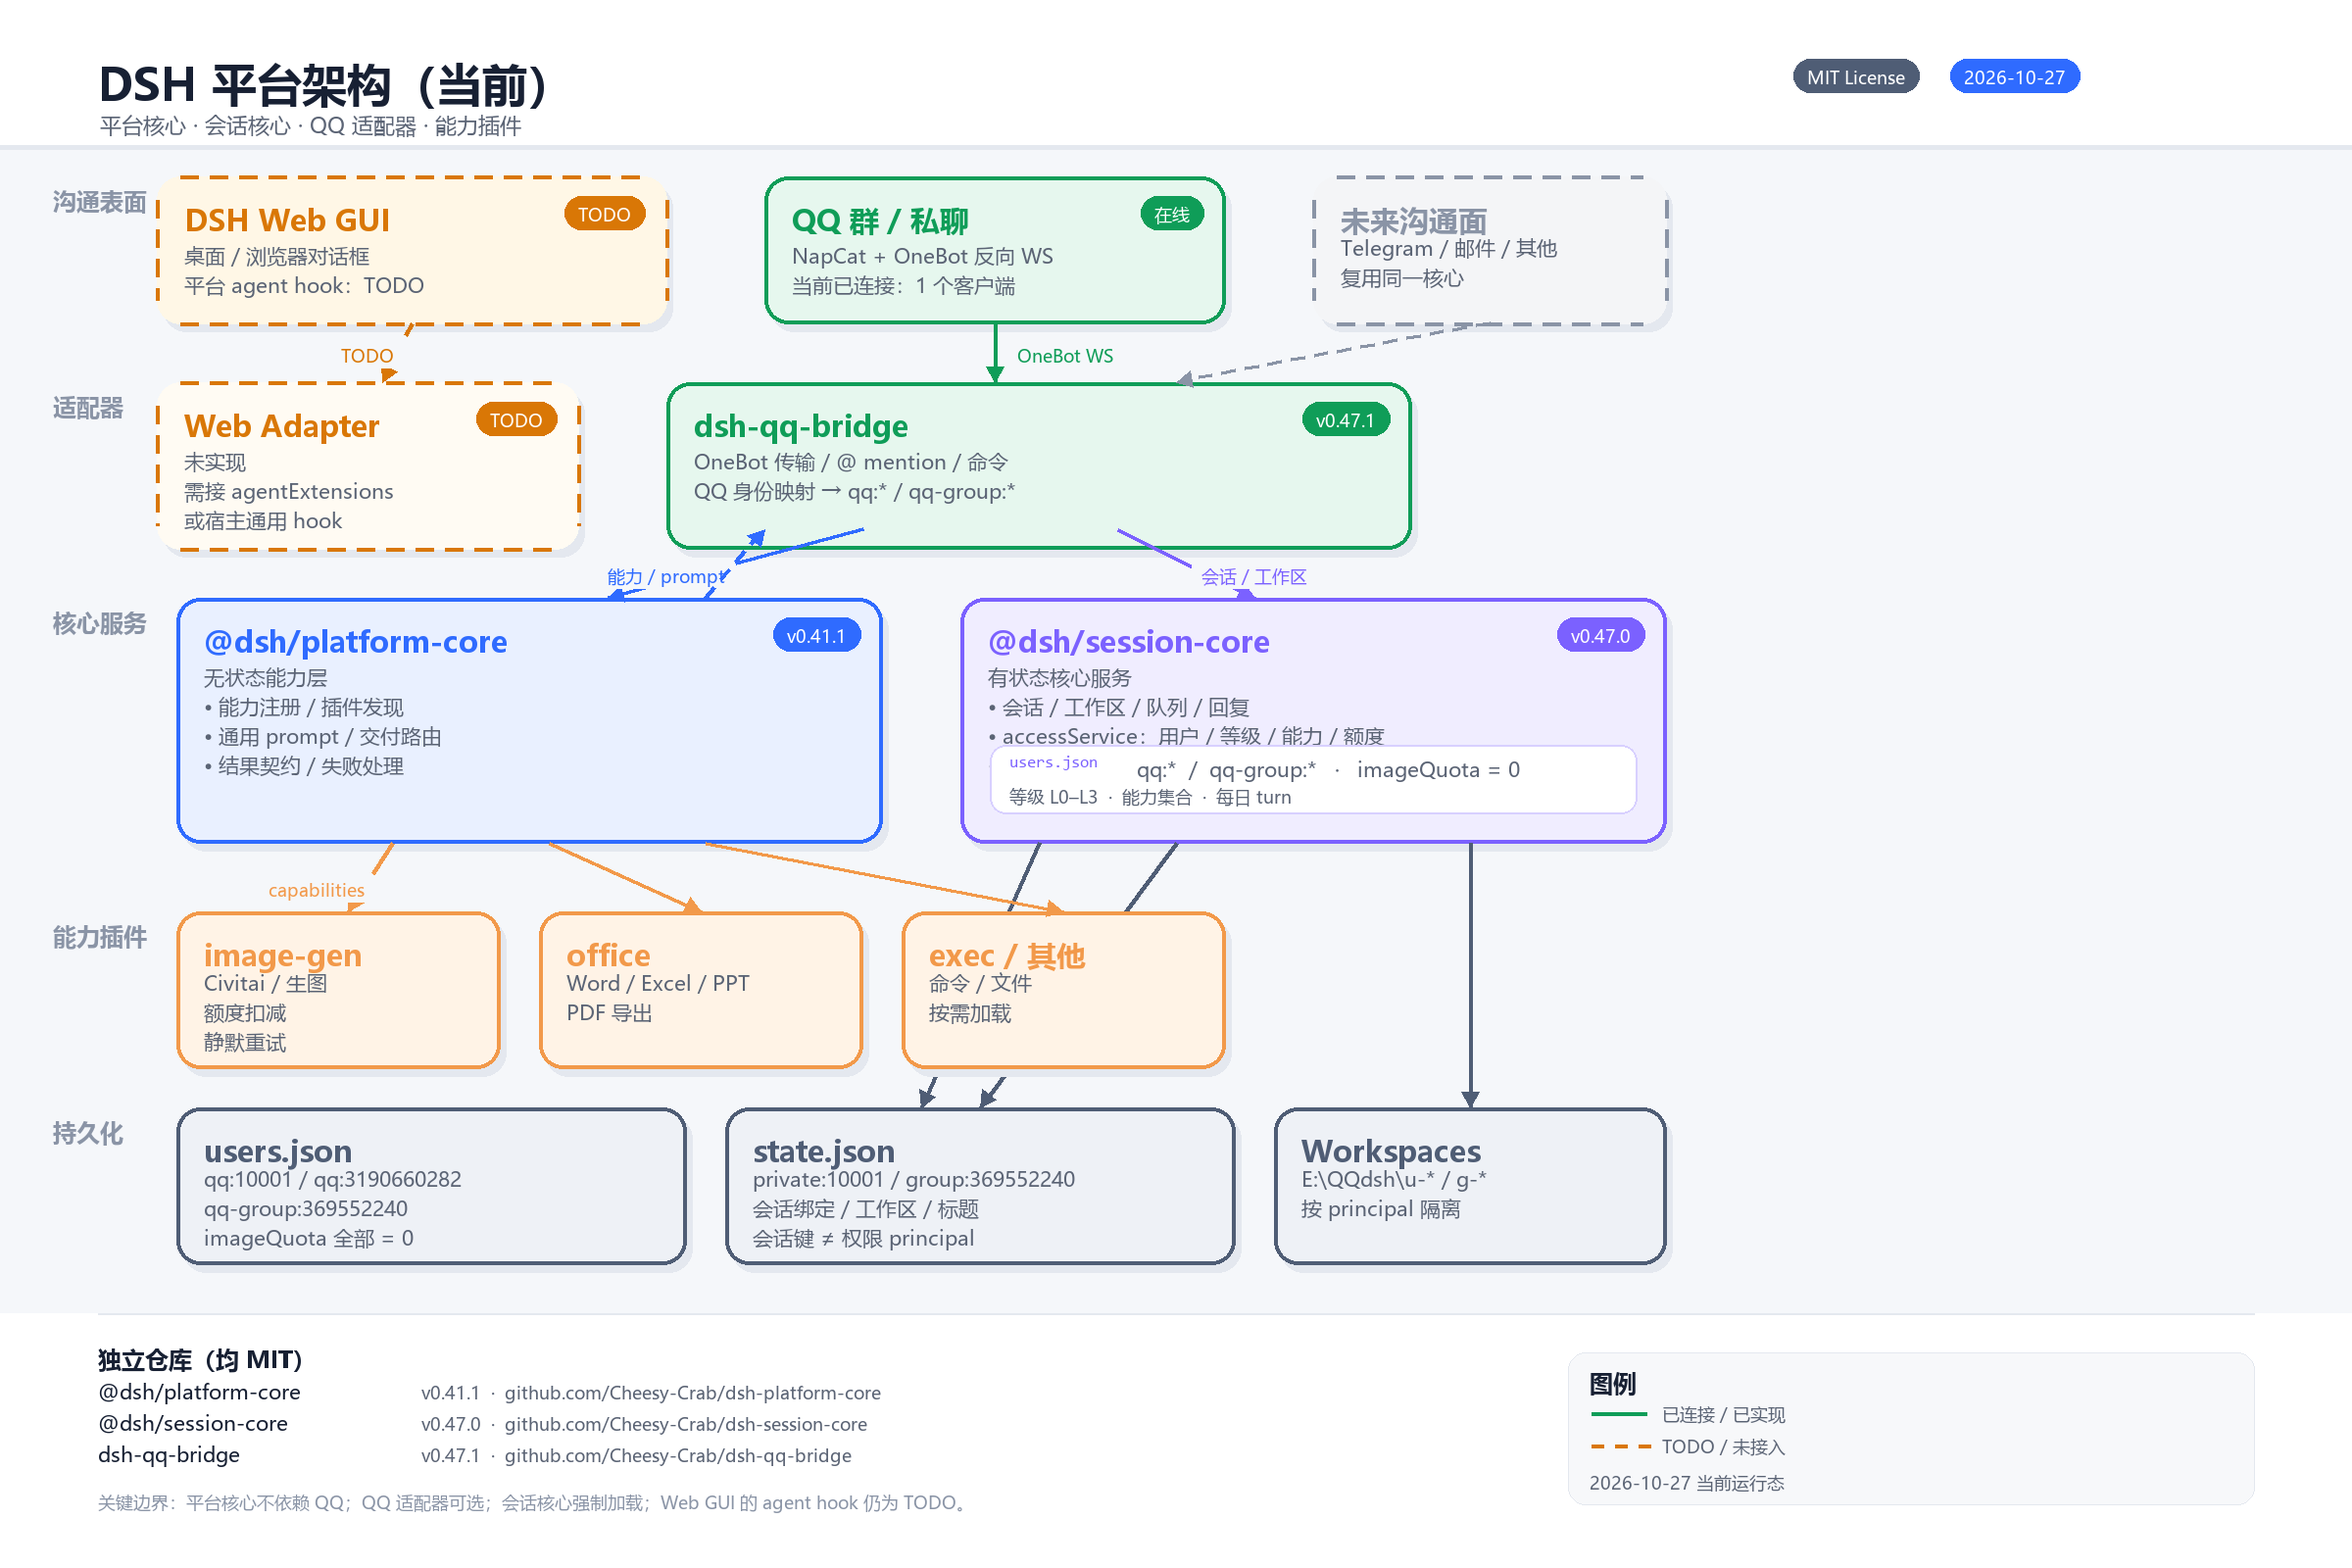
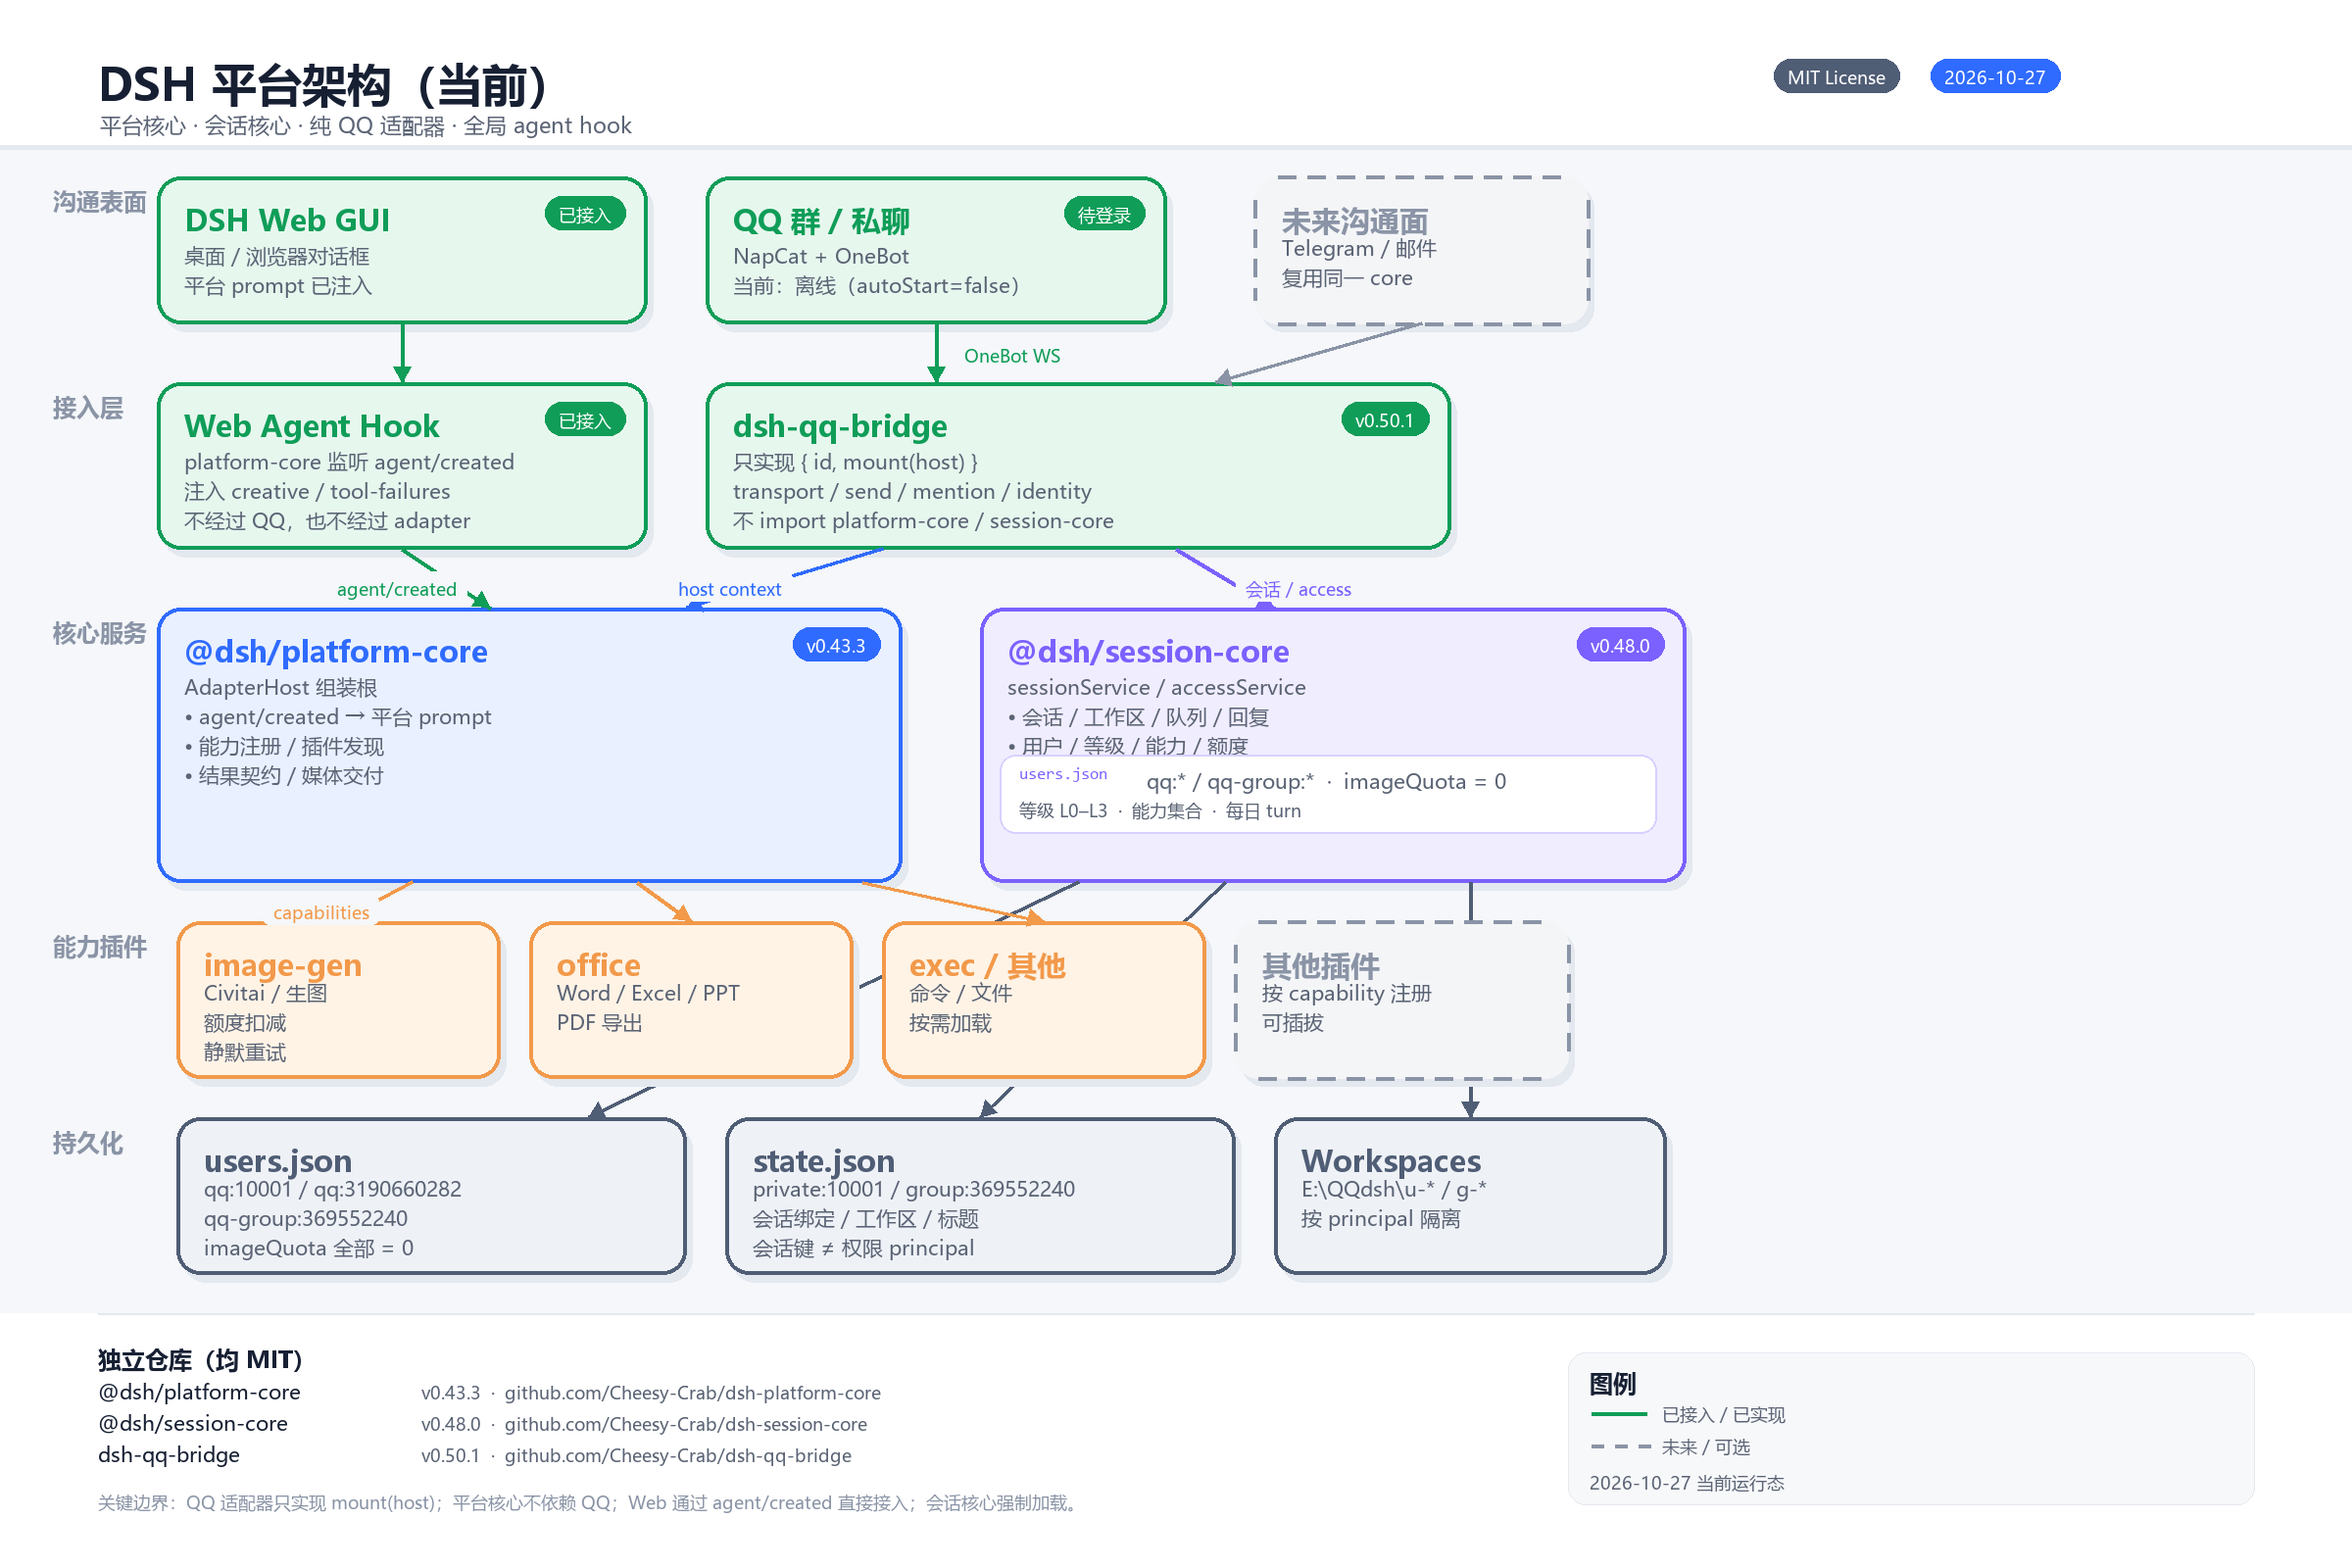
feat: platform v1.2 manifest and profile command

diff --git a/src/qq/commands.js b/src/qq/commands.js
@@ -40,10 +40,11 @@ export class CommandDispatcher {
    *           send: (chat: any, text: string) => Promise<unknown>,
    *           status: () => any }} options
    */
-  constructor({ manager, users, config, root, log, send, sendImage, status, screenshot = captureScreen, napcat, credentials, access }) {
+  constructor({ manager, users, config, root, log, send, sendImage, status, screenshot = captureScreen, napcat, credentials, access, profiles }) {
     this.manager = manager
     this.users = users
     this.access = access
+    this.profiles = profiles
     this.config = config
     this.root = root
     this.log = log
@@ -117,6 +118,38 @@ export class CommandDispatcher {
   }
 
   registerBuiltins() {
+    this.register('profile', {
+      usage: 'profile [list|use <id>|reset]',
+      description: '查看或切换当前会话 profile',
+      minLevel: 'L3',
+      handler: async ({ message, args }) => {
+        const profiles = this.profiles
+        if (!profiles?.list) return '当前平台未提供 profile registry。'
+        const action = String(args[0] ?? 'list').toLowerCase()
+        if (action === 'list') {
+          const items = profiles.list()
+          if (items.length === 0) return '当前没有可用 profile。'
+          return [
+            '可用 profile：',
+            ...items.map((profile) => `- ${profile.id}${profile.title ? `（${profile.title}）` : ''}`),
+          ].join('\n')
+        }
+        if (action === 'use') {
+          const id = String(args[1] ?? '').trim()
+          if (!id) return '用法：/profile use <id>'
+          const profile = profiles.resolve?.(id)
+          if (!profile) return `未知 profile：${id}`
+          this.manager.setProfile(message.chat, profile)
+          return `已切换 profile：${id}；下一条消息使用该 profile。`
+        }
+        if (action === 'reset') {
+          this.manager.setProfile(message.chat, undefined)
+          return '已恢复默认 profile。'
+        }
+        return '用法：/profile [list|use <id>|reset]'
+      },
+    })
+
     this.register('help', {
       usage: 'help',
       description: '显示可用指令',

diff --git a/test/platform-registry.test.js b/test/platform-registry.test.js
@@ -1,4 +1,4 @@
-import assert from 'node:assert/strict'
+import assert from 'node:assert/strict'
 import fs from 'node:fs'
 import os from 'node:os'
 import path from 'node:path'
@@ -59,8 +59,9 @@ test('registry resolves tools, capabilities, prompts and stats', () => {
     assert.equal(registry.forTool('draw_picture').id, 'action.draw-picture')
     assert.equal(registry.forTool('missing'), undefined)
     assert.equal(registry.prompts().length, 1)
-    assert.deepEqual(registry.describe(), { plugins: 3, native: 1, legacy: 1, knowledge: 1, unknown: 0 })
+    assert.deepEqual(registry.describe(), { plugins: 3, native: 1, legacy: 1, knowledge: 1, profile: 0, unknown: 0, profiles: 0, clients: 0 })
   } finally {
     fs.rmSync(root, { recursive: true, force: true })
   }
 })
+

diff --git a/src/qq/bridge.js b/src/qq/bridge.js
@@ -169,6 +169,7 @@ export class QqBridge {
       sendImage: (chat, file, options) => this.transport.sendImage(chat, file, options),
       status: () => this.status(),
       access: this.host.access,
+      profiles: this.host.profiles,
       napcat: this.napcat,
       credentials: () => this.credentials,
     })
@@ -300,4 +301,6 @@ export class QqBridge {
     }
   }
 }
+
+
 

diff --git a/docs/plugin-interface-v1.2.md b/docs/plugin-interface-v1.2.md
@@ -1,0 +1,160 @@
+# DSH 插件接口规范 v1.2（Manifest + Profile）
+
+状态：草案  
+适用范围：DSH 标准插件 + 平台 profile 扩展。
+
+## 1. 两层格式
+
+```json
+{
+  "dsh": {
+    "bundle": { "patch": "./cordis.patch.yml" },
+    "client": { "platform": "web" },
+    "platform": {
+      "contract": "1.2",
+      "capabilities": [],
+      "profiles": []
+    }
+  }
+}
+```
+
+- `dsh.bundle` / `dsh.client`：DSH 标准，不改。
+- `dsh.platform`：我们的命名空间扩展。
+- `dsh.platform.contract`：契约版本。
+- `dsh.platform.capabilities`：能力动作。
+- `dsh.platform.profiles`：会话 profile。
+
+旧字段 `dsh.pluginApi` / `dsh.capabilities` 仍可读取，但新插件应写新格式。
+
+## 2. 插件角色
+
+插件不再只有一个 kind，而是多角色：
+
+```json
+{
+  "roles": ["capability", "profile", "client", "bundle"]
+}
+```
+
+| 角色 | 来源 |
+|---|---|
+| `capability` | `dsh.platform.capabilities` 非空 |
+| `profile` | `dsh.platform.profiles` 非空 |
+| `client` | `dsh.client` |
+| `bundle` | `dsh.bundle` |
+| `adapter` | `dsh.platform.adapter` |
+
+一个插件可以同时是 profile + client + bundle，例如 liketavern。
+
+## 3. Capability
+
+能力是 agent 可调用的动作：
+
+```json
+{
+  "id": "image.generate",
+  "kind": "action",
+  "effects": ["network", "cost"],
+  "permissions": ["image"],
+  "bind": { "tool": "generate_image" },
+  "delivery": ["image"]
+}
+```
+
+约束：
+
+- 必须有输入/输出
+- 结果必须使用 `meta.dsh`
+- 权限与 effects 必须声明
+- 媒体通过平台交付
+
+## 4. Profile
+
+profile 是会话形态，不是动作：
+
+```json
+{
+  "id": "tavern",
+  "kind": "roleplay",
+  "agentPreset": "tavern",
+  "surfaces": ["web", "qq"],
+  "promptPolicy": {
+    "platformPrompts": false,
+    "ownsSystemPrompt": true
+  },
+  "toolPolicy": {
+    "ownsTools": true,
+    "capabilities": []
+  }
+}
+```
+
+约束：
+
+- `id` 必须稳定
+- `agentPreset` 必须能在 DSH 中解析
+- profile 不直接发消息
+- profile 不直接访问 QQ/NapCat
+- profile 需要由 `ProfileProvider` 实现运行时行为
+
+## 5. ProfileProvider
+
+```js
+{
+  listProfiles(ctx),
+  resolve(ctx, { sessionId, conversationKey }),
+  bind(ctx, { sessionId, profileId }),
+  unbind(ctx, { sessionId }),
+  promptPolicy(ctx, profile),
+  toolPolicy(ctx, profile),
+}
+```
+
+平台只通过该接口选择和应用 profile。
+
+## 6. 支持等级
+
+```text
+Level 1 可发现：manifest 声明
+Level 2 可调用：handler / provider 存在
+Level 3 可组合：host / session / surface 已接通
+```
+
+只有 Level 3 才叫“支持”。
+
+## 7. 兼容
+
+```text
+读取 dsh.platform.*
+回退 dsh.pluginApi / dsh.capabilities
+```
+
+迁移顺序：
+
+1. 读取新旧两套
+2. 新插件写新格式
+3. 旧字段 deprecated
+4. 主版本升级时移除
+
+## 8. 兼容字段
+
+DSH 标准：
+
+```text
+dsh.bundle
+dsh.client
+engines.dsh
+peerDependencies
+```
+
+我们的扩展：
+
+```text
+dsh.platform.contract
+dsh.platform.capabilities
+dsh.platform.profiles
+dsh.platform.adapter
+```
+
+不要把这些自定义字段放到 `dsh` 根上。

diff --git a/README.md b/README.md
@@ -6,7 +6,7 @@ QQ ↔ DSH 工作区对接插件：让 QQ 成为 DSH 工作区的远程入口。
 
 架构说明见 [docs/architecture.md](docs/architecture.md)：工作区对接域、agent 行为扩展域、QQ 适配层与运行支撑层。
 
-平台插件接口规范见 [docs/plugin-interface.md](docs/plugin-interface.md)，机器可读 schema 在 [schemas/](schemas/)；平台核心边界见 [docs/platform-core.md](docs/platform-core.md)，独立仓库为 https://github.com/Cheesy-Crab/dsh-platform-core；会话核心独立仓库为 https://github.com/Cheesy-Crab/dsh-session-core。外部平台/插件边界结论见 [docs/adr/0001-external-platform-boundary.md](docs/adr/0001-external-platform-boundary.md)。
+平台插件接口规范见 [docs/plugin-interface.md](docs/plugin-interface.md)，v1.2 manifest/profile 规范见 [docs/plugin-interface-v1.2.md](docs/plugin-interface-v1.2.md)，机器可读 schema 在 [schemas/](schemas/)；平台核心边界见 [docs/platform-core.md](docs/platform-core.md)，独立仓库为 https://github.com/Cheesy-Crab/dsh-platform-core；会话核心独立仓库为 https://github.com/Cheesy-Crab/dsh-session-core。外部平台/插件边界结论见 [docs/adr/0001-external-platform-boundary.md](docs/adr/0001-external-platform-boundary.md)。
 
 ## 安装（DSH Desktop 推荐）
 

diff --git a/CHANGELOG.md b/CHANGELOG.md
@@ -1,5 +1,12 @@
 # 变更记录
 
+## 0.51.0
+
+- 新增 dsh.platform manifest v1.2 支持，旧字段兼容。
+- 新增 ProfileRegistry 与 /profile 命令。
+- session-core 支持 per-conversation profile / agentPreset。
+- 平台核心升级到 v0.44.0，会话核心升级到 v0.49.0。
+
 ## 0.50.0
 
 - 移除兼容 shim，QQ 源码不再 import platform/session 实现。
@@ -504,4 +511,5 @@
 - 插件骨架：bundle patch、配置校验、生命周期。
 - 跨平台路径层（`E:\QQdsh` / `${DSH_HOME}/qq-workspaces`）。
 - 四个宿主接缝自检：工作区、会话/agent、审批策略、工具限制。
+
 
